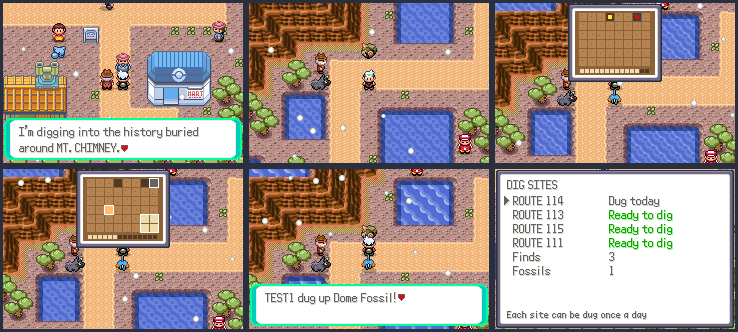
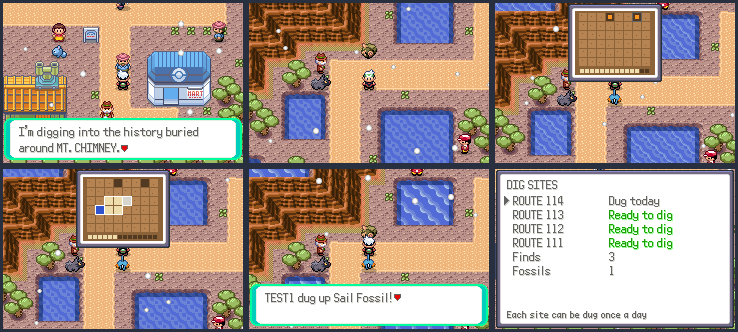
Move the Route 115 dig site to Route 112, by Mt. Chimney
Claude-Session: https://claude.ai/code/session_01FAAco2VjFVonnxuWRbLj7M

diff --git a/src/pastime_dig.c b/src/pastime_dig.c
@@ -90,7 +90,7 @@ static const struct DigItem sTreasures[] =
 
 static const u8 *const sSiteNames[DIG_SITES] =
 {
-    COMPOUND_STRING("ROUTE 114"), COMPOUND_STRING("ROUTE 113"), COMPOUND_STRING("ROUTE 115"), COMPOUND_STRING("ROUTE 111"),
+    COMPOUND_STRING("ROUTE 114"), COMPOUND_STRING("ROUTE 113"), COMPOUND_STRING("ROUTE 112"), COMPOUND_STRING("ROUTE 111"),
 };
 
 // The archaeologist's rewards, by finds.
@@ -149,7 +149,7 @@ const struct PastimeSpot gDigSpots[1 + DIG_SITES] =
     {MAP_FALLARBOR_TOWN, 12, 13, OBJ_EVENT_GFX_HIKER, MOVEMENT_TYPE_FACE_DOWN, 0, Dig_EventScript_Archaeologist},
     SITE(MAP_ROUTE114, 22, 10, 0),
     SITE(MAP_ROUTE113, 52, 3, 1),
-    SITE(MAP_ROUTE115, 20, 9, 2),
+    SITE(MAP_ROUTE112, 27, 10, 2),
     SITE(MAP_ROUTE111, 8, 9, 3),
 };
 

diff --git a/docs/pastimes.md b/docs/pastimes.md
@@ -489,7 +489,7 @@ next one and the festivals enjoyed. Screenshots:
 ![Archaeology digs](images/pastime-archaeology.png)
 
 An archaeologist in Fallarbor Town has four dig sites around Mt. Chimney
-(Routes 114, 113, 115 and 111), each marked by a bone poking out of the
+(Routes 114, 113, 112 and 111), each marked by a bone poking out of the
 ground. Each site can be dug once a day: three finds are buried in an 8x6
 patch and the player gets 14 digs (the + Control Pad moves the shovel, A
 digs, B stops). An empty square glows red next to a buried find, orange
